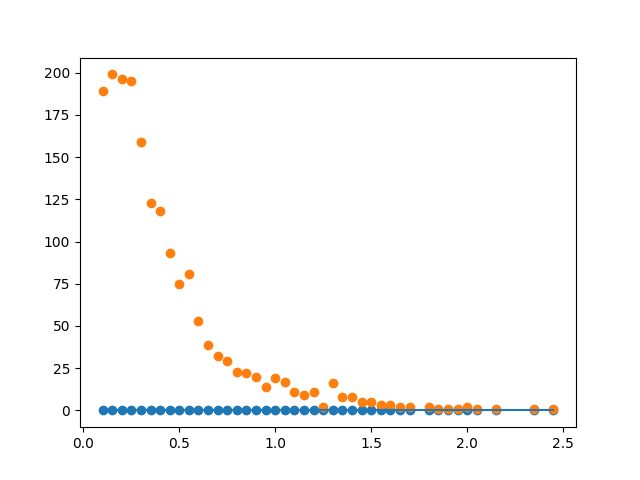
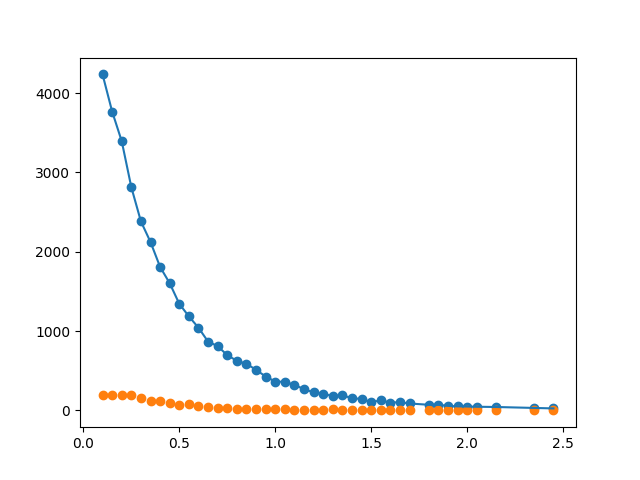
Added local hm_muon speed check

diff --git a/examples/python/test_proselecta.py b/examples/python/test_proselecta.py
@@ -17,8 +17,8 @@ local_func = pn.ps.project.ANL_CCQE_182176_Project_Q2
 nuwro_source = pn.EventSource("NUWRO-D2-ANL_77-numu/NUWRO.numu.numu_flux.ANL_1977_2horn_rescan.8652.evts.root")
 if not nuwro_source: sys.exit()
 
-neut_source = pn.EventSource("NEUT-D2-ANL_77-numu/NEUT.numu.numu_flux.ANL_1977_2horn_rescan.23500.evts.root")
-if not neut_source: sys.exit()
+# neut_source = pn.EventSource("NEUT-D2-ANL_77-numu/NEUT.numu.numu_flux.ANL_1977_2horn_rescan.23500.evts.root")
+# if not neut_source: sys.exit()
 
 # CUSTOM EVENT LOOP
 anlsetup = { "measurement": "ANL_Analysis_mycustomtag",
@@ -64,6 +64,17 @@ for (e, cvw) in tqdm (nuwro_source, desc="[INFO] : Processing Custom "):
     f2 = pn.ps.filter.CUSTOM_FILTER(e)
     data.Fill( f * f2, [p], 1.0)
 
+
+def hm_muon(evt):
+  part = pn.ps.sel.OutPartHM(evt, pn.ps.pdg.kMuon)
+  if not part: return 0.0
+  return part.momentum().length() * pn.ps.units.GeV
+#[INFO] : Processing Custom PY : 100000it [00:16, 6125.59it/s]
+for (e, cvw) in tqdm (nuwro_source, desc="[INFO] : Processing Custom PY "):
+    # Custom fill of secondary bands
+    p2 = hm_muon(e)
+    f2 = pn.ps.filter.CUSTOM_FILTER(e)
+    data.Fill( f * f2, [p2], 1.0)
 
 
 
